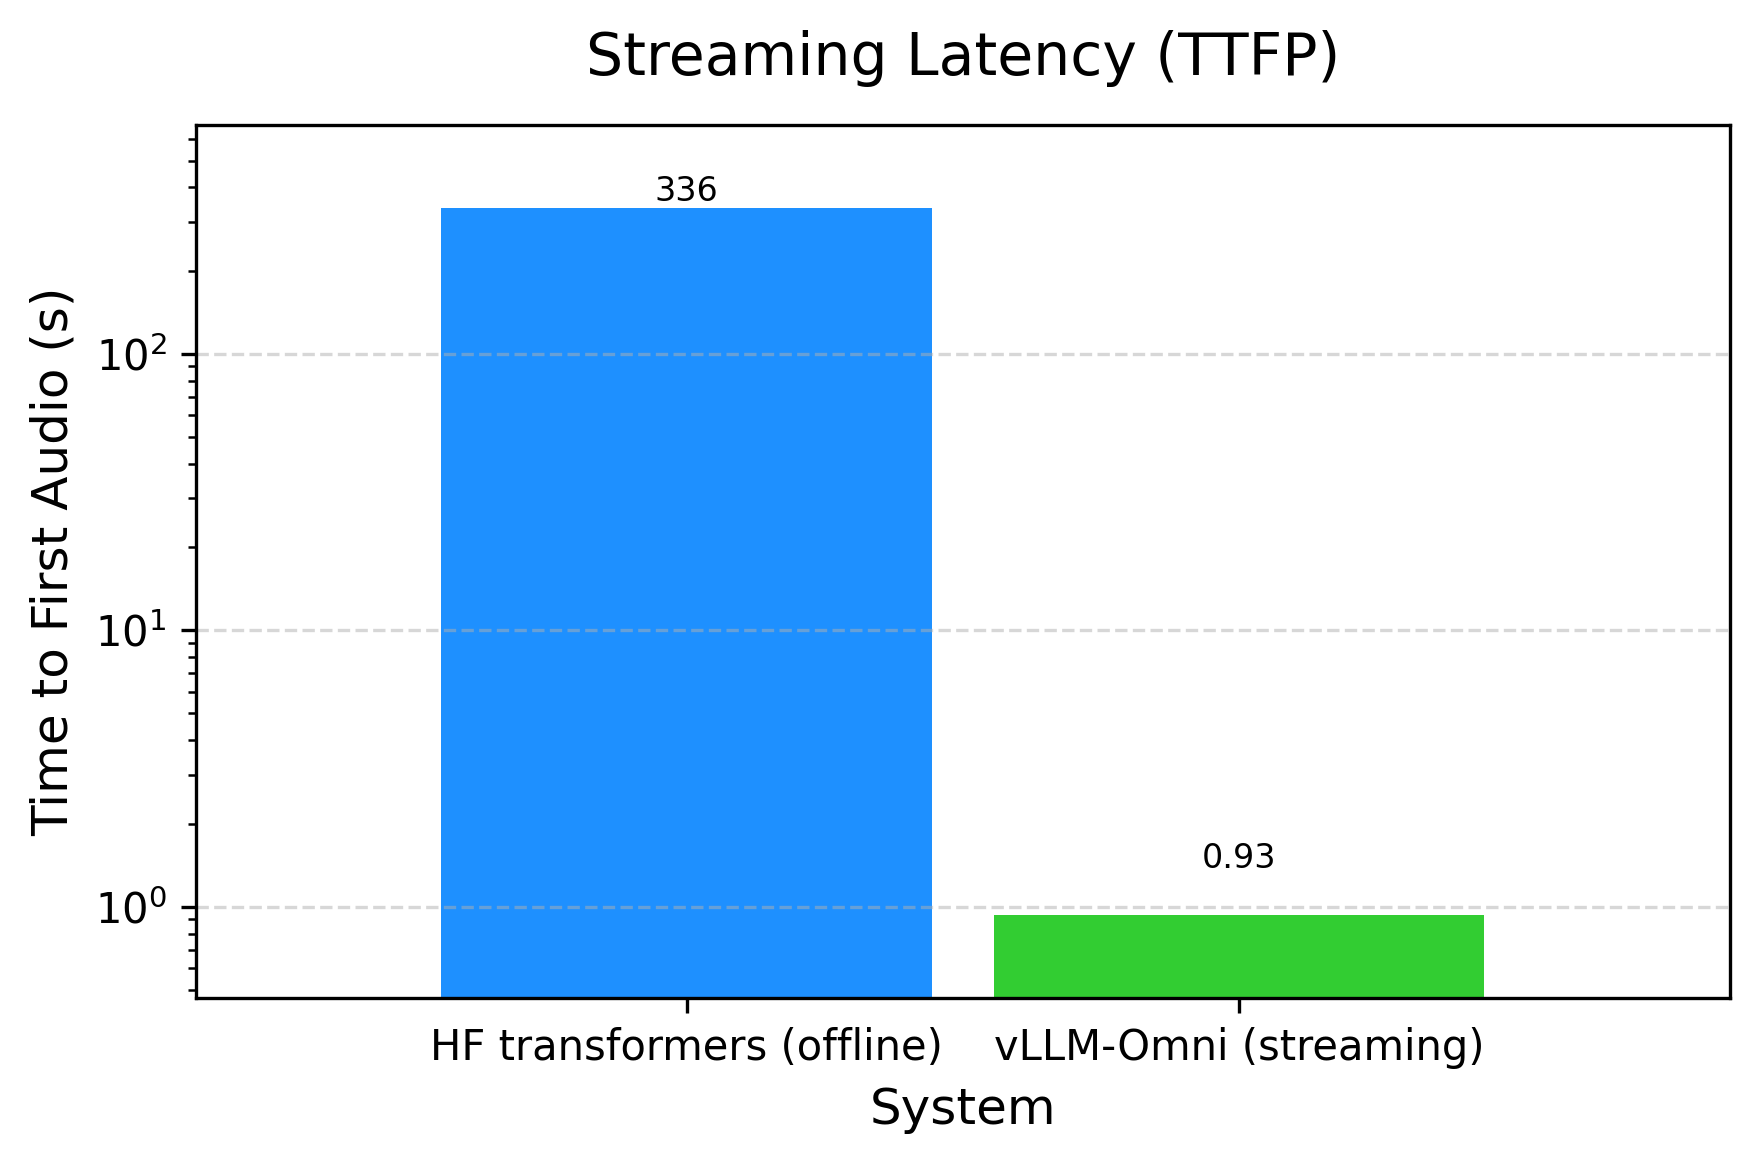
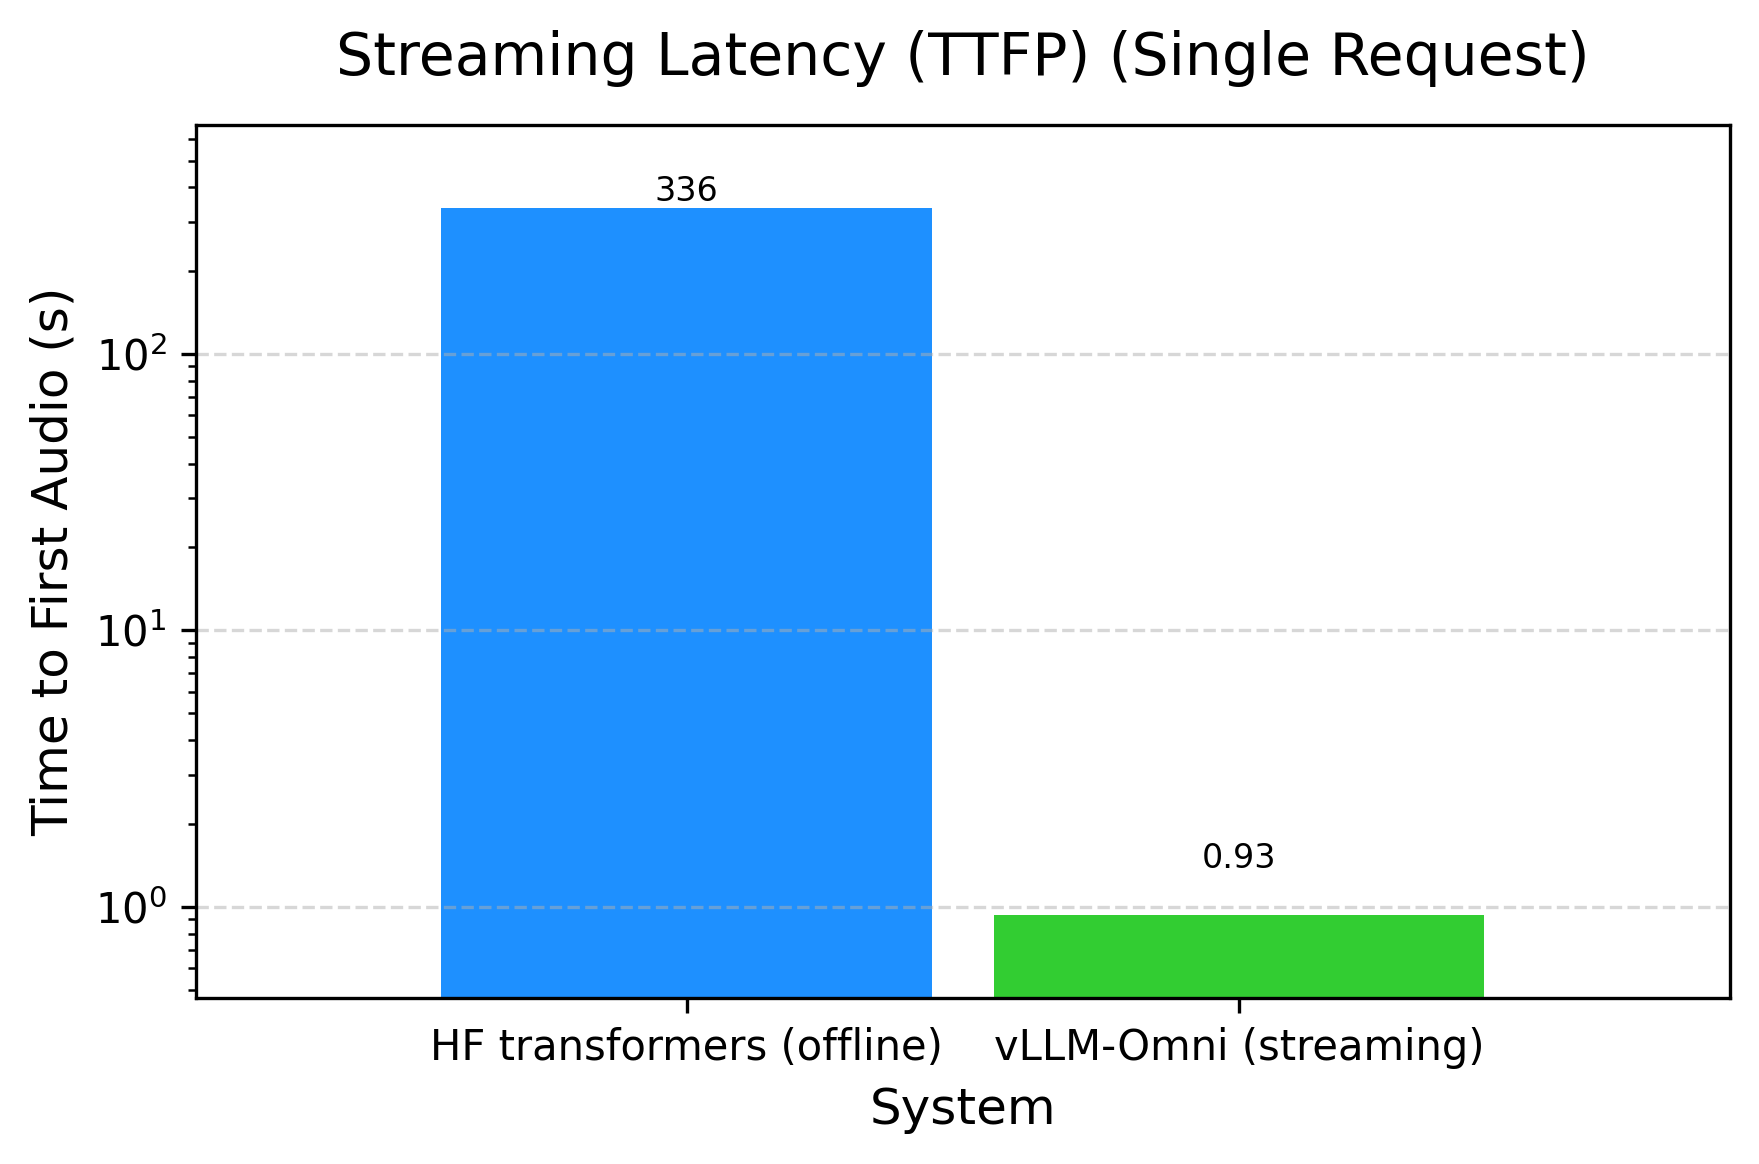
qwen3 omni blog

Changed region(s): [[0.1842, 0.0, 0.921, 0.0928]]

diff --git a/docs/design/plot_vllm_omni_vs_transformers.py b/docs/design/plot_vllm_omni_vs_transformers.py
@@ -68,7 +68,7 @@ def main():
         use_log_scale=True,
     )
     make_chart(
-        "Streaming Latency (TTFP)",
+        "Streaming Latency (TTFP) (Single Request)",
         "Time to First Audio (s)",
         labels,
         [336.10, 0.934],
